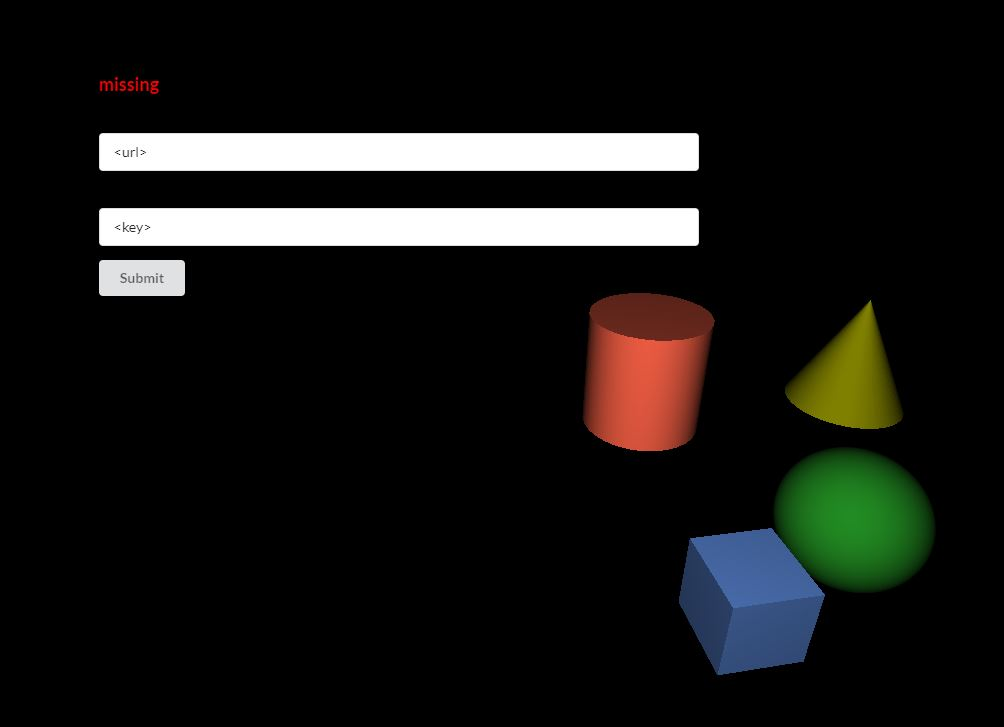
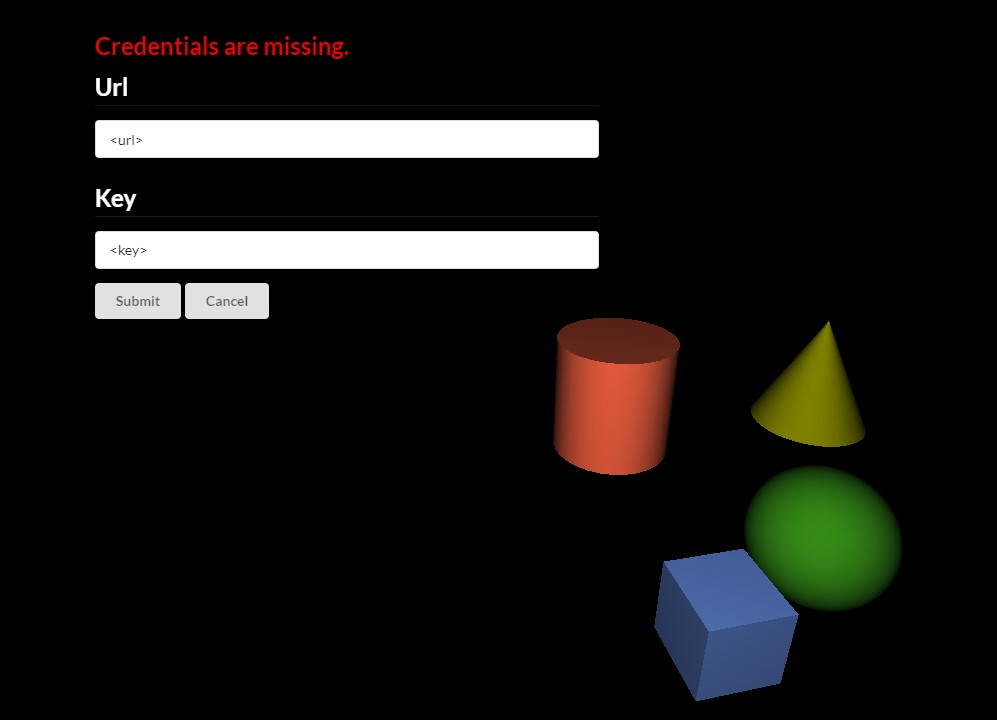
new screenshots for readme; updated RELEASE_NOTES.md

Changed region(s): [[0.0933, 0.0306, 0.7151, 0.4583], [0.653, 0.3972, 0.9328, 0.9778], [0.5286, 0.3972, 0.7151, 0.6722]]

diff --git a/RELEASE_NOTES.md b/RELEASE_NOTES.md
@@ -1,3 +1,7 @@
+### 1.0.6
+* added input fields for caption and credentials
+* refactored UI
+
 ### 1.0.5
 * added toggle button to mark a screenshot if it is allowed to be used for PR 
 
